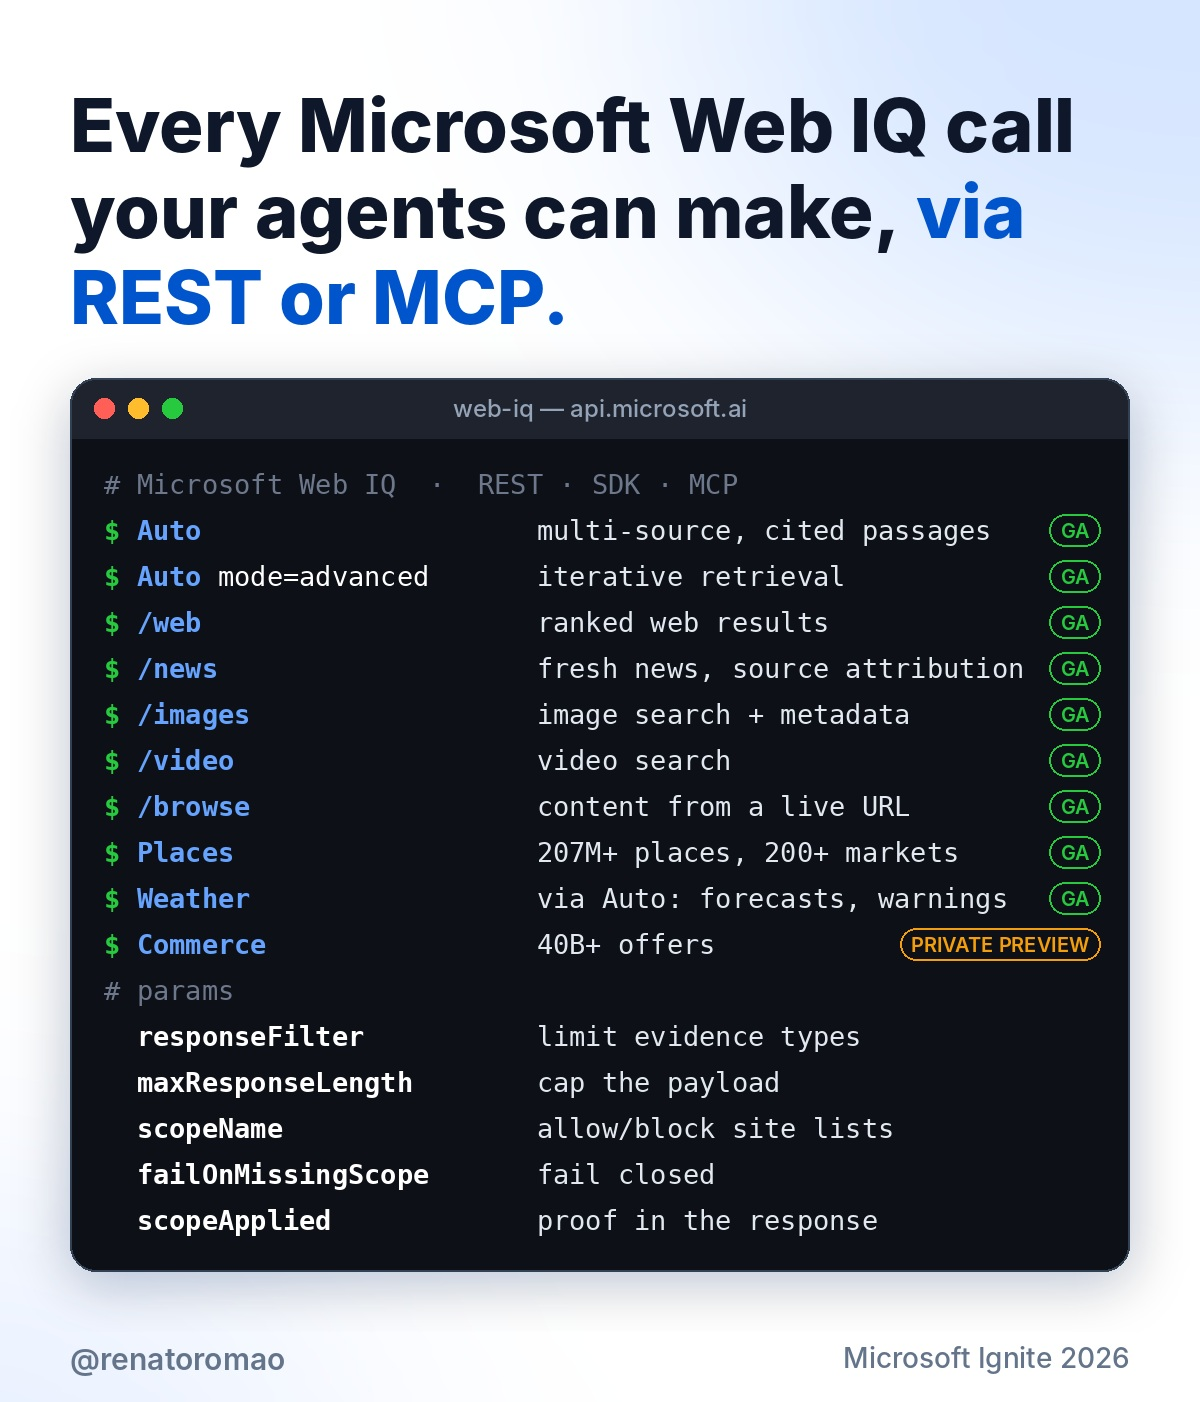
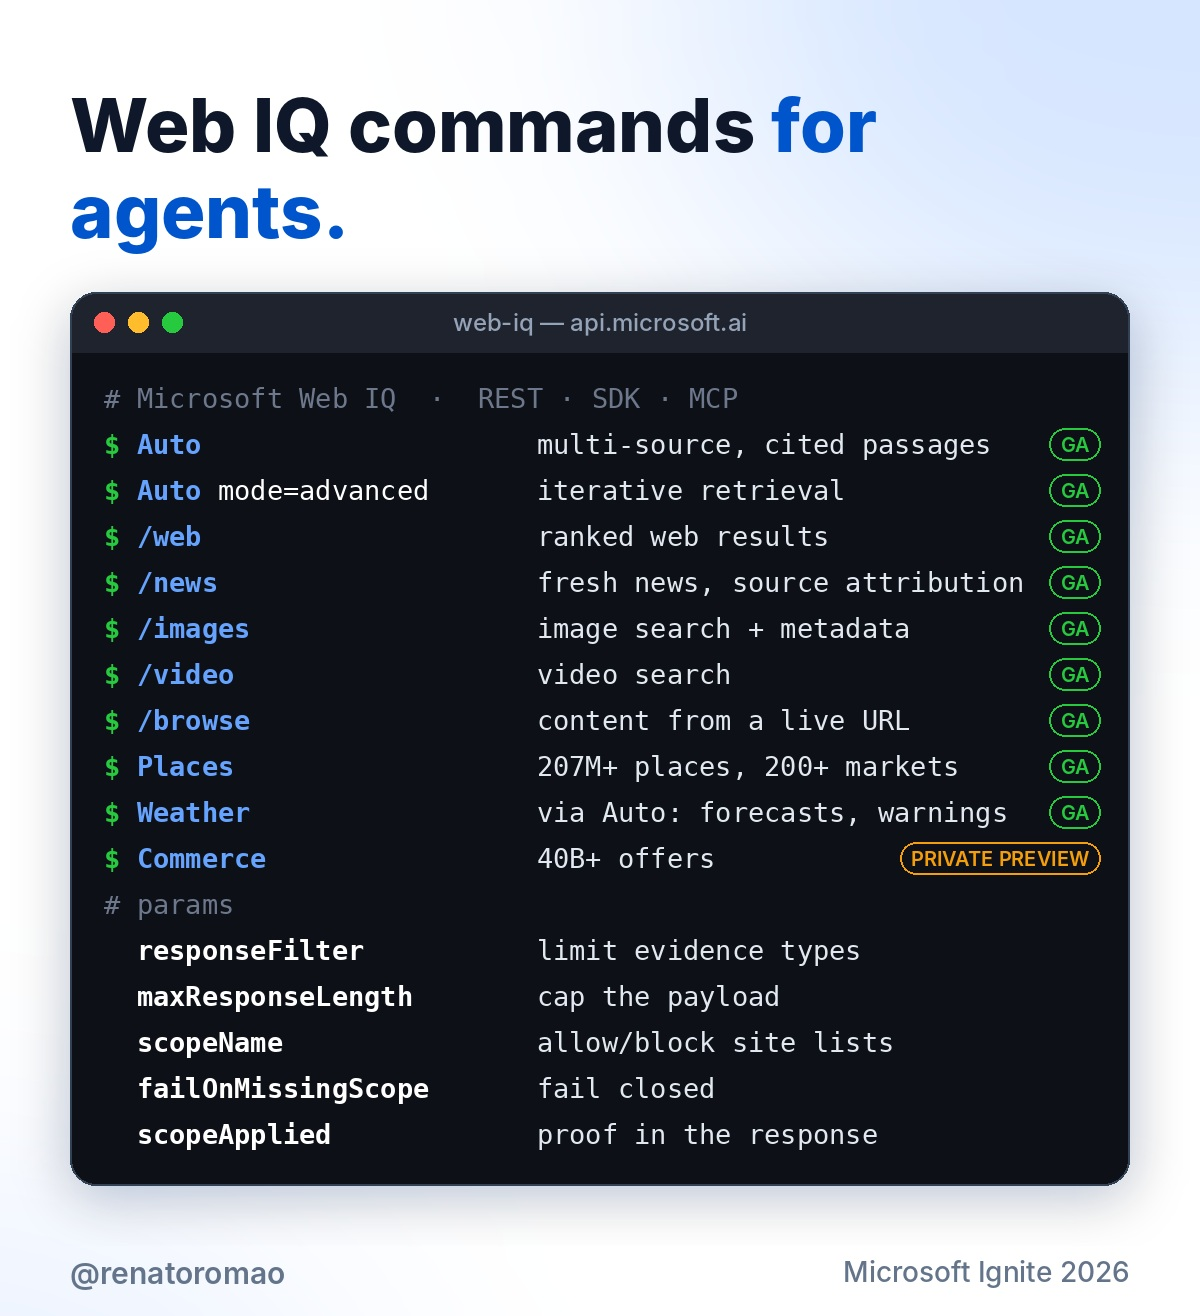
LinkedIn image: shorter title
Claude-Session: https://claude.ai/code/session_01XU8EcMzofBJEtGWQMkmRxa

Changed region(s): [[0.0308, 0.0623, 0.9558, 0.997], [0.0617, 0.9347, 0.2467, 0.997], [0.74, 0.3116, 0.8017, 0.3427]]

diff --git a/scripts/webiq_linkedin.py b/scripts/webiq_linkedin.py
@@ -76,7 +76,7 @@ W, H, M = 1200, 1500, 70
 g = Image.new("RGB", (W, H), "white"); gd = ImageDraw.Draw(g)
 gd.ellipse((W-520, -420, W+380, 380), fill=(214,230,255)); gd.ellipse((-460, H-300, 360, H+380), fill=(232,240,255))
 im = g.filter(ImageFilter.GaussianBlur(150)); d = ImageDraw.Draw(im)
-y = rich(d, M, 80, "Every Microsoft Web IQ call your agents can make, *via REST or MCP.*", font("ExtraBold", 74), 86, W-2*M) + 40
+y = rich(d, M, 80, "Web IQ commands *for agents.*", font("ExtraBold", 74), 86, W-2*M) + 40
 T = terminal(W - 2*M)
 sh = Image.new("RGBA", (T.width+120, T.height+120), (0,0,0,0))
 ImageDraw.Draw(sh).rounded_rectangle((60,76,T.width+60,T.height+70), 26, fill=(0,60,160,70))
